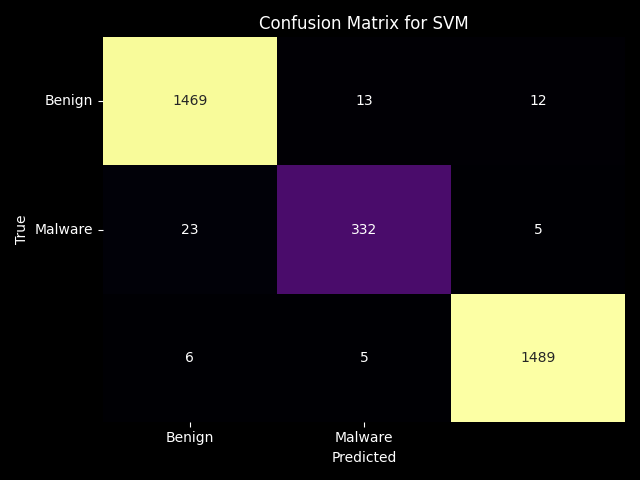
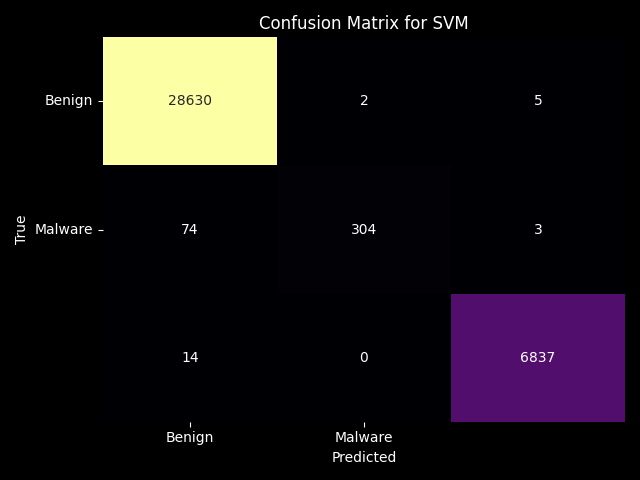
grqa

diff --git a/darknet/src/processing.py b/darknet/src/processing.py
@@ -38,7 +38,7 @@ class Model:
             self.X_train, self.X_test, self.Y_train, self.Y_test = data.set_get_X_Y(
                 kwargs.get('what_to_classify', 'class'),
                 kwargs.get('scaler', StandardScaler()),
-                kwargs.get('max_samples', 5000)
+                kwargs.get('max_samples', -1)
             )
 
             start = time.time()
@@ -175,7 +175,7 @@ class Data:
             except ValueError:
                 pass  # if the column is not numeric, skip it
 
-    def _extract_features(self, what_to_classify: str = 'class', scaler = StandardScaler(), max_samples = 5000):
+    def _extract_features(self, what_to_classify: str = 'class', scaler = StandardScaler(), max_samples = -1):
         '''
         Extract features from the dataset.
         '''
@@ -183,7 +183,7 @@ class Data:
         if not isinstance(self.data, DataFrame):
             return None
         
-        if max_samples > 0 and what_to_classify == 'class':
+        if max_samples != -1 and what_to_classify == 'class':
             # get the labels
             self.data = self.data.groupby('label').apply(
                 # sample up to max_samples
@@ -218,7 +218,7 @@ class Data:
 
         self.X_train, self.X_test, self.Y_train, self.Y_test = train_test_split(X, Y, test_size=test_size, random_state=random_state)
 
-    def set_get_X_Y(self, what_to_classify: str = 'class', scaler = StandardScaler(), max_samples = 0):
+    def set_get_X_Y(self, what_to_classify: str = 'class', scaler = StandardScaler(), max_samples = -1):
         '''
         get the X and Y lists for training
         what_to_classify - if class, classify labels, if benign; vpn; or tor, classify families of said class
